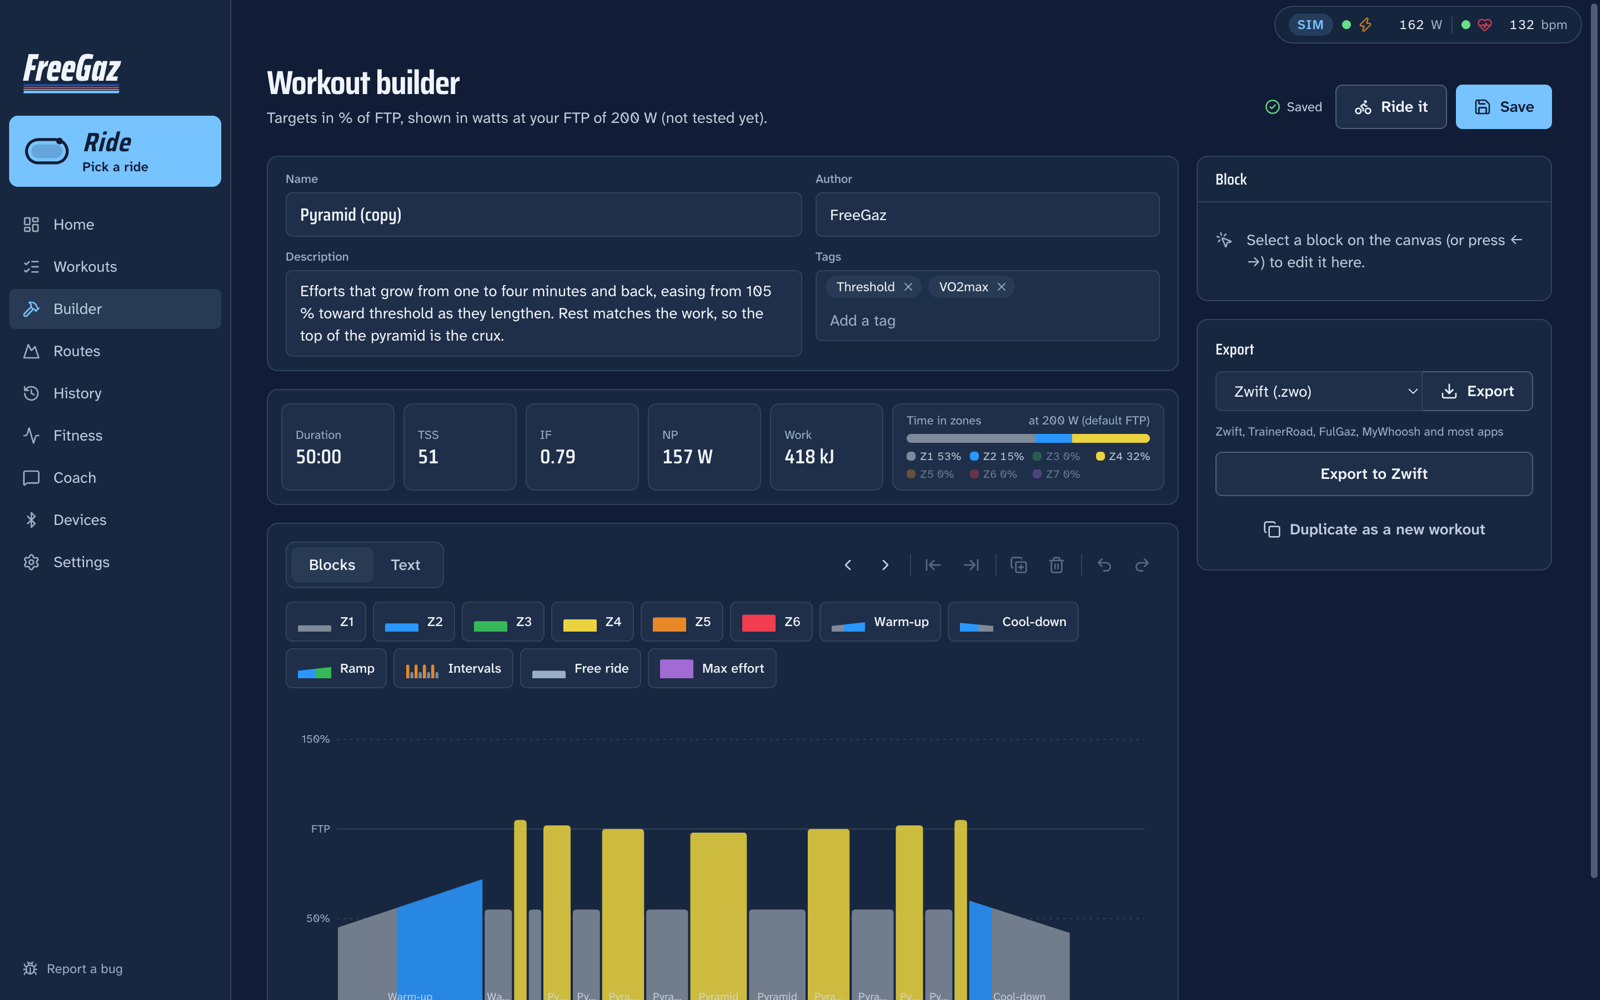
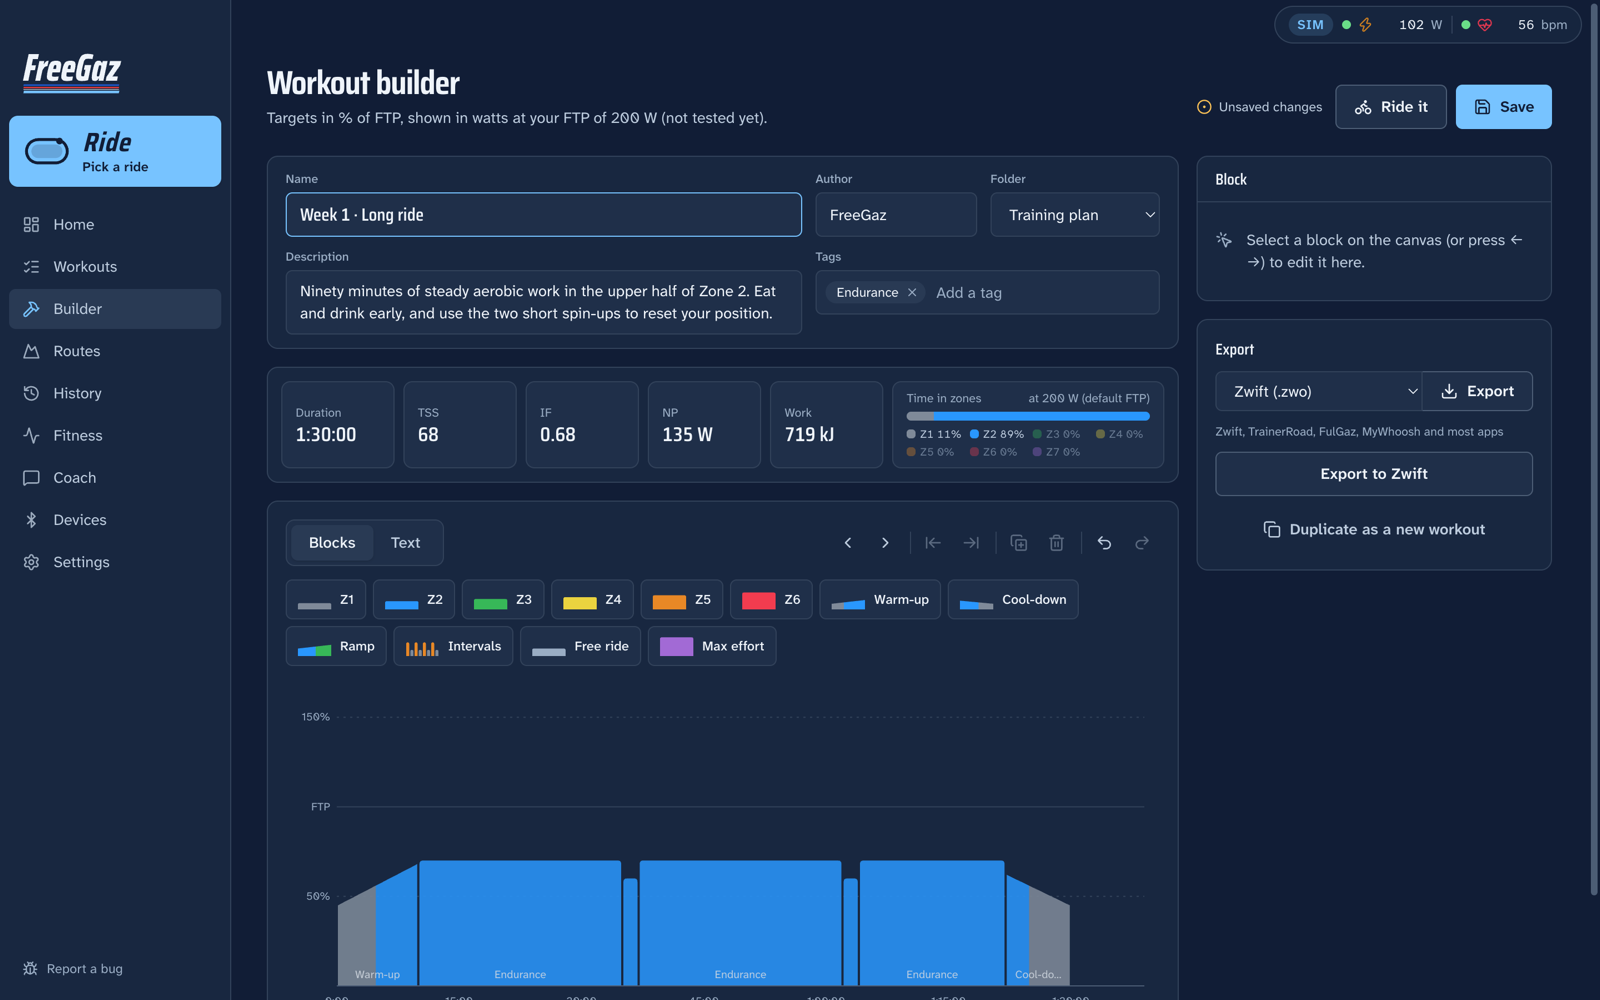
README: the Workouts tabs and Training plan in the tour; ignore exported workouts
- New screenshots: the Workouts page on its FreeGaz tab, the Training
  plan tab (three numbered workouts), the builder with its Folder
  picker, and the coach settings with the new cartoon faces.
- .gitignore: .zwo/.mrc/.erg exports and FreeGaz backup zips saved into
  the checkout are ignored (test fixtures under src/**/fixtures are
  not). The workout library itself lives in the app's database, outside
  the repo.

diff --git a/README.md b/README.md
@@ -38,12 +38,16 @@ It's a data-obsessed indoor cycling trainer for macOS. It drives your smart trai
 
 <p align="center"><img src="docs/screenshots/coach.png" alt="Coach settings: the personas, a sample line, spice from gentle to feral, and profanity from clean to unhinged" width="900"></p>
 
-**Workouts you can see before they hurt you,** and a builder for the ones nobody has written yet. Drag blocks, type intervals.icu text, or describe it and let the AI write it.
+**Workouts you can see before they hurt you,** on three shelves: FreeGaz's own workouts, your Custom ones, and a Training plan you put in order.
 
 <p align="center">
-  <img src="docs/screenshots/workouts.png" alt="The workout library, with every workout drawn as its power profile at your FTP" width="440">
-  <img src="docs/screenshots/builder.png" alt="The builder: blocks you drag and resize, live TSS, IF and zones, and export to Zwift" width="440">
+  <img src="docs/screenshots/workouts.png" alt="The Workouts page on its FreeGaz workouts tab: every workout drawn as its power profile at your FTP, with Custom workouts and Training plan tabs beside it" width="440">
+  <img src="docs/screenshots/training-plan.png" alt="The Training plan tab: three workouts numbered in order, with arrows to reorder them" width="440">
 </p>
+
+**A builder for the ones nobody has written yet.** Drag blocks, type intervals.icu text, or describe it and let the AI write it. File it under Custom workouts or straight into your plan.
+
+<p align="center"><img src="docs/screenshots/builder.png" alt="The builder: name, author and folder, live TSS, IF and zones, blocks you drag and resize, and export to Zwift" width="900"></p>
 
 **Real roads, real gradients.** Import a GPX and the trainer climbs when the road does. Race a ghost of your last attempt if you're feeling brave.
 
